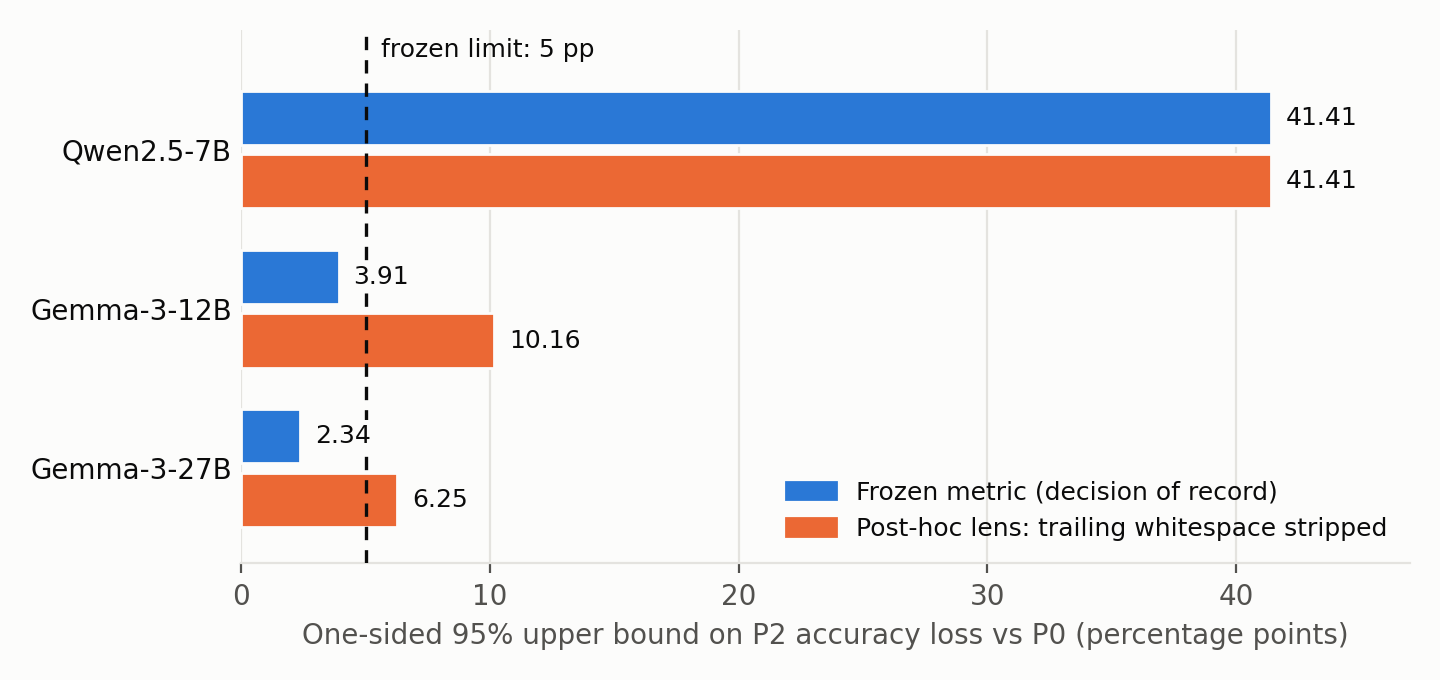
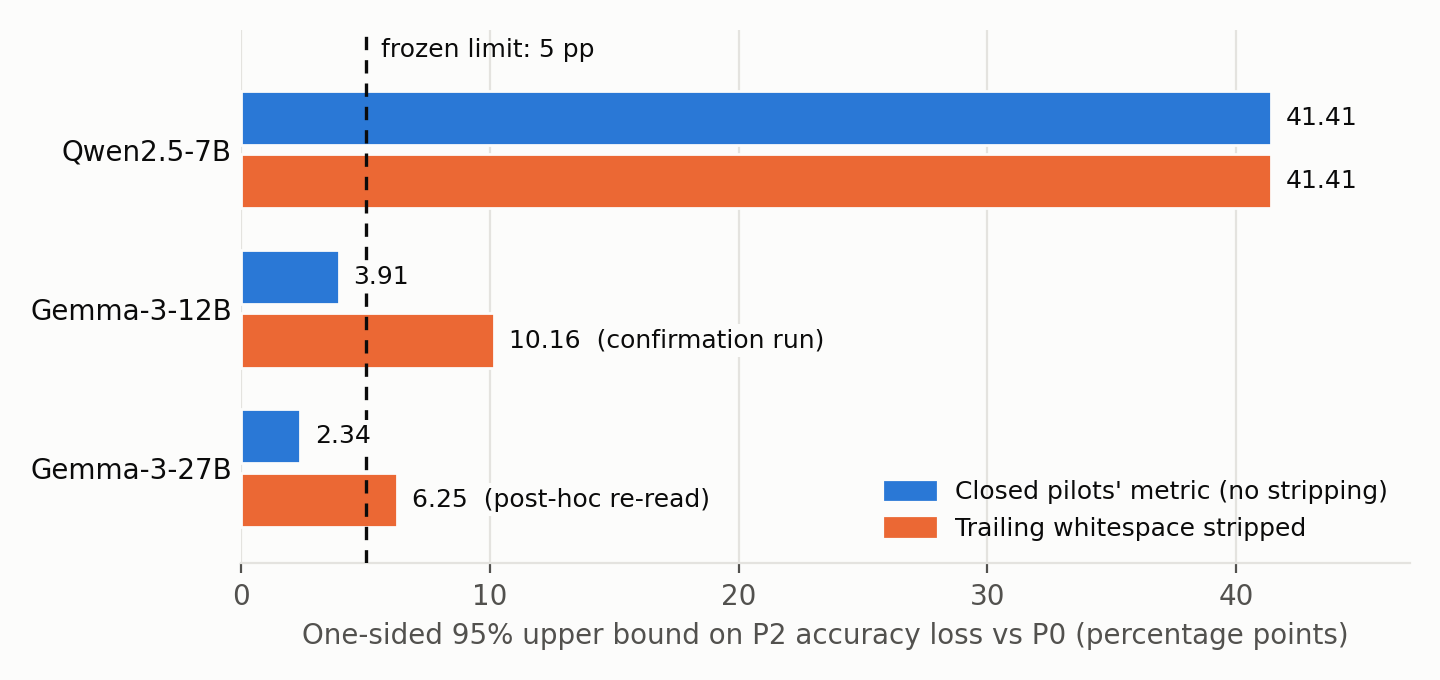
Report the Gemma-12B confirmation pilot in the paper, ledger and README
The confirmation pilot pilot-20260927T202455Z-f5ec3892 ran under the
answer-convention amendment frozen beforehand: P0 0.9512 (usability met),
P2 accuracy-loss upper 10.16 pp against the 5 pp limit, decision STOP, with
all 512 P0 generations bitwise-identical to the closed pilot's. The
Gemma-12B corrected-metric result is therefore a frozen outcome, not only a
post-hoc re-read; Gemma-3-27B remains post-hoc.

- paper: abstract and contributions state the confirmation; §4.1 adds it as
  a fourth pilot column; §4.3 separates the re-read, the frozen amendment
  and the confirmation run and labels each row's status; Figure 1 labels
  the 12B bar "confirmation run" and the 27B bar "post-hoc re-read"; the
  discussion, limitations and reproducibility sections follow. The
  confirmation report joins the paper's number-trace sources.
- docs/claims.md: the lens section's "NOT RECORDED" row now records the
  run, and the lens row marks 12B as confirmed and 27B as descriptive.
- README: the Phase Two paragraph states the confirmation outcome.

diff --git a/paper/make_figures.py b/paper/make_figures.py
@@ -15,15 +15,18 @@ import matplotlib.pyplot as plt  # noqa: E402
 
 LIMIT_PP = 5  # frozen gate 2: one-sided 95% upper P2 accuracy loss <= 5 pp
 
-# (family, frozen-metric upper bound, post-hoc lens upper bound), in pp.
+# (family, closed-pilot upper bound, whitespace-stripped upper bound), in pp.
 UPPER_BOUNDS = [
     # research/open_weight_lingua/reports/post_hoc_answer_lens.md (Qwen: identical under both)
     ("Qwen2.5-7B", 41.41, 41.41),
-    # reports/gemma3_pilot.md (frozen) and reports/post_hoc_answer_lens.md (lens)
+    # reports/gemma3_pilot.md (closed) and reports/gemma3_12b_confirmation.md (confirmation run)
     ("Gemma-3-12B", 3.906, 10.16),
-    # reports/gemma3_27b_pilot.md (frozen) and reports/post_hoc_answer_lens.md (lens)
+    # reports/gemma3_27b_pilot.md (closed) and reports/post_hoc_answer_lens.md (post-hoc only)
     ("Gemma-3-27B", 2.344, 6.25),
 ]
+# What the stripped value is, per family: shown on the bar so status is never color-alone.
+STRIPPED_STATUS = {"Qwen2.5-7B": "", "Gemma-3-12B": "confirmation run",
+                   "Gemma-3-27B": "post-hoc re-read"}
 
 # Reference palette slots 1 and 2 (validated: CVD dE 24.7, contrast >= 3:1 on #fcfcfb).
 FROZEN, LENS = "#2a78d6", "#eb6834"
@@ -41,12 +44,14 @@ def main(out: Path = Path(__file__).parent / "figures" / "fig1_preservation_boun
     families = [row[0] for row in UPPER_BOUNDS]
     for index, (family, frozen, lens) in enumerate(UPPER_BOUNDS):
         y = len(UPPER_BOUNDS) - 1 - index
-        for offset, value, color in ((height / 2 + gap, frozen, FROZEN),
-                                     (-(height / 2 + gap), lens, LENS)):
+        status = STRIPPED_STATUS[family]
+        for offset, value, color, note in ((height / 2 + gap, frozen, FROZEN, ""),
+                                           (-(height / 2 + gap), lens, LENS, status)):
             ax.barh(y + offset, value, height=height, color=color, edgecolor=SURFACE,
                     linewidth=1.0, zorder=3)
+            label = f"{value:.2f}" + (f"  ({note})" if note else "")
             # Knockout background so the limit line passes behind the label, not through it.
-            ax.text(value + 0.6, y + offset, f"{value:.2f}", va="center", ha="left",
+            ax.text(value + 0.6, y + offset, label, va="center", ha="left",
                     color=INK, fontsize=9, zorder=6,
                     bbox={"facecolor": SURFACE, "edgecolor": "none", "pad": 1.5})
 
@@ -68,7 +73,7 @@ def main(out: Path = Path(__file__).parent / "figures" / "fig1_preservation_boun
     ax.spines["bottom"].set_color(GRID)
 
     handles = [plt.Rectangle((0, 0), 1, 1, color=FROZEN), plt.Rectangle((0, 0), 1, 1, color=LENS)]
-    ax.legend(handles, ["Frozen metric (decision of record)", "Post-hoc lens: trailing whitespace stripped"],
+    ax.legend(handles, ["Closed pilots' metric (no stripping)", "Trailing whitespace stripped"],
               loc="lower right", frameon=False, fontsize=9, labelcolor=INK)
     fig.tight_layout()
     fig.savefig(out, facecolor=SURFACE)

diff --git a/paper/nla_three_families.md b/paper/nla_three_families.md
@@ -13,6 +13,7 @@ sources:
   research/open_weight_lingua/protocols/gemma_answer_convention.md
   research/open_weight_lingua/reports/gemma3_pilot.md
   research/open_weight_lingua/reports/gemma3_27b_pilot.md
+  research/open_weight_lingua/reports/gemma3_12b_confirmation.md
   research/open_weight_lingua/reports/post_hoc_answer_lens.md
   research/open_weight_lingua/reports/steering_assay.md
   research/open_weight_lingua/reports/nla_ecosystem_notes.md
@@ -47,8 +48,11 @@ The descriptions were clearly on-task (they beat a shuffled-description control
 on every family), but the frozen edit rule found no editable current-value
 statement in any group on any family (0/128 each), so the edit hypothesis is
 untested. Both Gemma families initially failed the usability gate because of an
-instrument artifact (a trailing newline); a post-hoc re-read with that newline
-stripped shows all three families exceeding the preservation limit. A separate
+instrument artifact (a trailing newline). A Gemma-3-12B confirmation pilot, run
+under a metric amendment frozen beforehand, made the task usable (P0 accuracy
+0.9512) and failed preservation (upper bound 10.16 points), so two families now
+fail preservation on usable tasks; a post-hoc re-read puts Gemma-3-27B over the
+limit as well. A separate
 steering assay and a serving-backend equivalence gate were also negative. We
 report these as bounded negative results for one task, one site per model and
 the released checkpoints, not as a verdict on NLAs in general.
@@ -93,7 +97,8 @@ test (Fraser-Taliente et al., 2026).
 4. **An instrument-failure case study** (§4.3): the Gemma usability failures
    were a trailing-newline artifact in the answer metric. It was caught post hoc
    and handled by freezing a metric amendment for a confirmation run, not by
-   relabeling closed runs.
+   relabeling closed runs. The confirmation run then reproduced the predicted
+   outcome exactly.
 
 ## 2. Background
 
@@ -194,25 +199,28 @@ that recomputes every decision and statistic from saved results.
 
 ## 4. Results
 
-All pilots completed 128/128 groups with auditor PASS. The decision on every
-family was **STOP**, and no validation stage was opened.
+Four pilots ran: one per family under the frozen metric, and one Gemma-3-12B
+confirmation pilot under the amended metric described in §4.3. All completed
+128/128 groups with auditor PASS. Every decision was **STOP**, and no validation
+stage was opened.
 
 ### 4.1 Outcomes against the frozen gates
 
-| | Qwen2.5-7B, block 20/28 | Gemma-3-12B, block 32/48 | Gemma-3-27B, block 41/62 |
-|---|---:|---:|---:|
-| P0 accuracy (frozen metric) | 0.811 | 0.520 | 0.254 |
-| Task usable (P0 ≥ 0.80) | yes | no | no |
-| P2 accuracy-loss upper (pp; limit 5) | 41.4 | 3.91 | 2.34 |
-| P2 − P3 log-prob lower (must be > 0) | +3.80 | +2.61 | +1.84 |
-| P2 agreement with P0 | 0.615 | 0.854 | 0.816 |
-| Edit-eligible groups (need 32) | 0/128 | 0/128 | 0/128 |
-| AV round-trip cosine (median) | 0.841 | 0.990 | 0.982 |
-| Projected validation cost (s; budget 28,800) | 49,253 | 75,348 | 181,295 |
-| Decision | STOP | STOP | STOP |
+| | Qwen2.5-7B, block 20/28 | Gemma-3-12B, block 32/48 | Gemma-3-27B, block 41/62 | Gemma-3-12B confirmation (amended metric) |
+|---|---:|---:|---:|---:|
+| P0 accuracy | 0.811 | 0.520 | 0.254 | 0.9512 |
+| Task usable (P0 ≥ 0.80) | yes | no | no | yes |
+| P2 accuracy-loss upper (pp; limit 5) | 41.4 | 3.91 | 2.34 | 10.16 |
+| P2 − P3 log-prob lower (must be > 0) | +3.80 | +2.61 | +1.84 | +2.607 |
+| P2 agreement with P0 | 0.615 | 0.854 | 0.816 | 0.945 |
+| Edit-eligible groups (need 32) | 0/128 | 0/128 | 0/128 | 0/128 |
+| AV round-trip cosine (median) | 0.841 | 0.990 | 0.982 | not reported |
+| Projected validation cost (s; budget 28,800) | 49,253 | 75,348 | 181,295 | 113,902 |
+| Decision | STOP | STOP | STOP | STOP |
 
-Read naively, the Gemma rows look like the language route *works* on Gemma
-(preservation met) and fails on Qwen. Section 4.3 shows why that reading is wrong.
+Read naively, the first three columns look like the language route *works* on
+Gemma (preservation met) and fails on Qwen. The fourth column, and Section 4.3,
+show why that reading is wrong.
 
 ### 4.2 Per-condition behavior
 
@@ -243,7 +251,7 @@ Three patterns hold on every family:
 On Qwen, P2's residual accuracy does not come from the retained norm: replacing
 it with the calibration median norm gives 0.5605 against 0.5645.
 
-### 4.3 An instrument failure, and what the corrected re-read shows
+### 4.3 An instrument failure, a corrected re-read, and a confirmation run
 
 Gemma-3-12B's P0 accuracy of 0.5195 was suspicious for a task this simple. A
 failure taxonomy of the saved generations found that the mirror-sourced target
@@ -253,38 +261,43 @@ correct value once the newline was removed. The Qwen pilot has zero
 whitespace-affected rows.
 
 The closed pilots were not relabeled: thresholds and instruments are frozen per
-phase, so the STOP decisions stand. Instead, a metric amendment (`rstrip`: strip
-trailing ASCII whitespace once, then apply the same exact-integer rule) was frozen
-*before* a planned Gemma-12B confirmation pilot. Separately, a post-hoc
-descriptive re-read of the saved generations under that lens gives:
+phase, so their STOP decisions stand. Instead, in three steps:
 
-| Family | P0 accuracy (lens) | P2 accuracy (lens) | P2 loss point / one-sided upper (pp) | Limit |
-|---|---:|---:|---:|---:|
-| Qwen2.5-7B | 0.8105 | 0.5645 | 34.38 / 41.41 | 5 |
-| Gemma-3-12B | 0.9512 | 0.9336 | 5.47 / 10.16 | 5 |
-| Gemma-3-27B | 0.9648 | 0.9531 | 2.34 / 6.25 | 5 |
+1. **Post-hoc re-read.** Saved generations were re-scored with trailing ASCII
+   whitespace stripped once before the same exact-integer rule. This previewed
+   what a corrected instrument would show, and is descriptive only.
+2. **Frozen amendment.** That `rstrip` convention was then frozen as a metric
+   amendment, *before* any confirmation forward pass. The default stays the
+   original `raw` convention, and the closed runs replay unchanged under it.
+3. **Confirmation pilot.** A fresh Gemma-3-12B pilot ran under the amendment,
+   with the same lock, the same 128 groups and the same calibration fit
+   (`pilot-20260927T202455Z-f5ec3892`, auditor PASS). All 512 P0 generations
+   were bitwise-identical to the closed pilot's: the instrument changed, not the
+   model. Every number matched the re-read's preview exactly.
 
-![Upper bound on P2 accuracy loss per family, frozen metric versus post-hoc lens, against the 5-point limit](figures/fig1_preservation_bounds.png)
+| Family | P0 accuracy | P2 accuracy | P2 loss point / one-sided upper (pp) | Limit | Status |
+|---|---:|---:|---:|---:|---|
+| Qwen2.5-7B | 0.8105 | 0.5645 | 34.38 / 41.41 | 5 | Frozen; no whitespace-affected rows, identical under either metric |
+| Gemma-3-12B | 0.9512 | 0.9336 | 5.47 / 10.16 | 5 | Frozen outcome of the confirmation pilot |
+| Gemma-3-27B | 0.9648 | 0.9531 | 2.34 / 6.25 | 5 | Post-hoc re-read only; no confirmation run |
+
+![Upper bound on P2 accuracy loss per family, closed-pilot metric versus trailing whitespace stripped, against the 5-point limit](figures/fig1_preservation_bounds.png)
 
 **Figure 1.** One-sided 95% upper bound on P2 accuracy loss versus P0. Under the
-frozen metric (decisions of record), the Gemma bounds sit under the limit only
-because the metric rejected most correct answers. Under the post-hoc lens, both
+closed pilots' metric, the Gemma bounds sit under the limit only because the
+metric rejected most correct answers. With trailing whitespace stripped, both
 Gemma tasks become usable (P0 0.951 and 0.965) and all three families exceed the
-5-point limit. The lens values are descriptive re-reads of saved generations,
-not new frozen outcomes.
+5-point limit. For Gemma-3-12B that value is the frozen outcome of the
+confirmation pilot; for Gemma-3-27B it is a post-hoc re-read of saved
+generations, not a frozen outcome.
 
 So the apparent Gemma preservation passes were floor effects of the format
-rejections. With the instrument corrected, the three families agree: the
-description route loses more than the frozen tolerance. The size of the loss
-differs a lot, from 41.41 points on Qwen to 6.25 on Gemma-3-27B, but three
-families cannot separate model size from site depth, family or the NLA pair's
-training, and the 27B AV was served with a BF16 cast that could not be audited
-locally.
-
-**Status of the confirmation run.** The amendment names a fresh Gemma-12B
-confirmation pilot under the `rstrip` convention, whose numbers would supersede
-the lens preview. Its results are not recorded in this repository at the time of
-writing.
+rejections. With a working instrument, Gemma-3-12B lands where Qwen landed:
+usable task, preservation failed, decided by a frozen run. Gemma-3-27B points the
+same way, though only descriptively. The size of the loss differs a lot, from
+41.41 points on Qwen to 6.25 on Gemma-3-27B, but three families cannot separate
+model size from site depth, family or the NLA pair's training, and the 27B AV
+was served with a BF16 cast that could not be audited locally.
 
 ### 4.4 The edit interface never appeared
 
@@ -338,9 +351,10 @@ decode caching.
 
 **What the evidence supports.** At the released sites, on this task, the English
 descriptions carry information the model uses (P2 beats P3 everywhere), but not
-enough to reproduce the model's behavior within a 5-point tolerance: decisively
-so on the usable Qwen task under the frozen metric, and on all three families
-under the post-hoc lens. A generic numerical reconstruction, given
+enough to reproduce the model's behavior within a 5-point tolerance. That is a
+frozen outcome on the two usable tasks, Qwen2.5-7B (decisively) and Gemma-3-12B
+under the amended metric, and a post-hoc reading on Gemma-3-27B. A generic
+numerical reconstruction, given
 no more bytes than the text, stays close to the unmodified model. The descriptions
 did not expose current variable values in an editable form, and description
 differences did not steer targeted behavior.
@@ -360,8 +374,10 @@ identity gate ruled that out. A faster backend could have silently changed the
 measurements; an equivalence gate caught it. A metric artifact made two families
 look like they preserved behavior; freezing thresholds per phase and freezing the
 fix as an amendment for a new run, rather than relabeling closed runs, kept the
-record honest. The negative results are only credible because each of those
-failure modes had a written rule before the outcome was seen.
+record honest. The re-read made a prediction, and the confirmation run under the
+frozen amendment tested it and reproduced it exactly. The negative results are
+only credible because each of those failure modes had a written rule before the
+outcome was seen.
 
 ## 6. Limitations
 
@@ -372,8 +388,12 @@ failure modes had a written rule before the outcome was seen.
   with four small configuration files differing.
 - The Gemma-3-27B AV (float32-native) was served with a BF16 cast to fit memory.
   That deviation is declared in the lock and could not be audited locally.
-- The lens results in §4.3 are post-hoc and descriptive. The planned confirmation
-  run under the frozen amendment is not recorded here.
+- Only Gemma-3-12B has a confirmation run under the amended metric. The
+  Gemma-3-27B corrected-metric result in §4.3 is a post-hoc re-read and stays
+  descriptive.
+- The amended metric strips trailing whitespace only. The teacher-forced
+  log-probability channel is unchanged and still scores a newline-free suffix
+  that the Gemma target does not prefer; this is recorded, not reconciled.
 - Behavioral measurements are engineering instruments, not semantic evidence. No
   claim is made about what the descriptions mean.
 
@@ -385,7 +405,7 @@ hash-pinned model locks, the frozen protocols, the runner, the independent
 auditor, per-run manifests and the reports quoted here. Its fixture test suite
 runs on CPU in CI, on tiny random models with no downloads. Real runs need one
 GPU host; measured pilot wall-clock times were 11,980.8 s (Qwen2.5-7B), 18,472.7 s
-(Gemma-3-12B) and 44,681.4 s (Gemma-3-27B).
+(Gemma-3-12B), 44,681.4 s (Gemma-3-27B) and 27,524 s (Gemma-3-12B confirmation).
 
 | Record | Where |
 |---|---|
@@ -393,6 +413,7 @@ GPU host; measured pilot wall-clock times were 11,980.8 s (Qwen2.5-7B), 18,472.7
 | Qwen pilot decision, gate by gate | [protocols/pilot_decision.md](../research/open_weight_lingua/protocols/pilot_decision.md) |
 | Gemma-3-12B and 27B pilots | [reports/gemma3_pilot.md](../research/open_weight_lingua/reports/gemma3_pilot.md), [reports/gemma3_27b_pilot.md](../research/open_weight_lingua/reports/gemma3_27b_pilot.md) |
 | Answer-metric amendment and lens | [protocols/gemma_answer_convention.md](../research/open_weight_lingua/protocols/gemma_answer_convention.md), [reports/post_hoc_answer_lens.md](../research/open_weight_lingua/reports/post_hoc_answer_lens.md) |
+| Gemma-3-12B confirmation pilot | [reports/gemma3_12b_confirmation.md](../research/open_weight_lingua/reports/gemma3_12b_confirmation.md) |
 | Steering assay | [reports/steering_assay.md](../research/open_weight_lingua/reports/steering_assay.md) |
 | Every claim and its status | [docs/claims.md](../docs/claims.md) |
 | Full technical report (Qwen) | [docs/phase_two_technical_report.md](../docs/phase_two_technical_report.md) |

diff --git a/docs/claims.md b/docs/claims.md
@@ -224,17 +224,19 @@ block 41 of 62, width 5376) with the unsloth/gemma-3-27b-it mirror target.
 A descriptive re-read of the closed pilots' saved generations, with trailing
 ASCII whitespace stripped once before the unchanged exact-integer rule. It
 changes no frozen outcome: thresholds and instruments are frozen per phase, and
-the STOP decision on each family stands. See
-[reports/post_hoc_answer_lens.md](../research/open_weight_lingua/reports/post_hoc_answer_lens.md)
-and [protocols/gemma_answer_convention.md](../research/open_weight_lingua/protocols/gemma_answer_convention.md).
+the STOP decision on each family stands. A Gemma-3-12B confirmation pilot under
+the frozen amendment later reproduced the 12B lens numbers exactly. See
+[reports/post_hoc_answer_lens.md](../research/open_weight_lingua/reports/post_hoc_answer_lens.md),
+[protocols/gemma_answer_convention.md](../research/open_weight_lingua/protocols/gemma_answer_convention.md)
+and [reports/gemma3_12b_confirmation.md](../research/open_weight_lingua/reports/gemma3_12b_confirmation.md).
 
 | Statement | Status | Evidence and boundary |
 |---|---|---|
 | The Gemma usability-gate failures reflect the model's computation | FALSE (instrument artifact) | Gemma-3-12B pilot taxonomy: 228/512 variants rejected for trailing whitespace, 221 of them with the correct value after stripping; the mirror target answers digits + newline + `<end_of_turn>`. The Qwen pilot has zero whitespace-affected rows |
-| Under the lens, every family exceeds the 5 pp preservation limit | Observed post hoc; descriptive only | Lens P2 accuracy-loss one-sided upper: Qwen2.5-7B 41.41, Gemma-3-12B 10.16, Gemma-3-27B 6.25 pp. Recomputed from saved generations with the frozen bootstrap; not a new frozen outcome |
+| Under the lens, every family exceeds the 5 pp preservation limit | Observed post hoc; confirmed for Gemma-3-12B by a frozen run; Gemma-3-27B remains descriptive | Lens P2 accuracy-loss one-sided upper: Qwen2.5-7B 41.41, Gemma-3-12B 10.16, Gemma-3-27B 6.25 pp, recomputed from saved generations with the frozen bootstrap. The 12B value is now also a frozen outcome (row below); the 27B value is not |
 | The frozen-metric Gemma "preservation passes" show the language route works on Gemma | FALSE | They were floor effects of the format rejections; under the lens the Gemma tasks become usable (P0 0.951 / 0.965) and preservation fails |
 | An answer-convention amendment exists for future runs | Frozen 2026-09-27, before the Gemma-12B confirmation pilot | `--answer-convention rstrip`; the default stays `raw`, byte-identical to the closed pilots' instrument, and remains the convention for Qwen runs |
-| A Gemma-12B confirmation pilot under the amendment has been run | NOT RECORDED in this repository | Its numbers would supersede the lens preview; until recorded, the lens values stay descriptive |
+| A Gemma-12B confirmation pilot under the amendment has been run | COMPLETE; decision STOP | `pilot-20260927T202455Z-f5ec3892`, 128/128 groups, auditor PASS, `answer_convention: rstrip`, same lock, groups and calibration fit as the closed pilot. All 512 P0 generations bitwise-identical to the closed pilot's. P0 0.9512 (usability met); P2 accuracy-loss upper 10.16 pp > 5 pp (not met); P2 − P3 log-prob lower +2.607; edit-eligible 0/128. Every number matches the lens preview exactly. See reports/gemma3_12b_confirmation.md |
 
 ## Completed phase-one findings (2026-09-16)
 

diff --git a/README.md b/README.md
@@ -251,9 +251,11 @@ taxonomy traced that to the answer metric: the Gemma target ends its answers wit
 a newline, which the frozen metric rejects. A post-hoc re-read with trailing
 whitespace stripped makes both Gemma tasks usable and shows every family exceeding
 the 5-point preservation limit (upper bounds 41.41, 10.16 and 6.25 points). The
-edit interface was absent on all three families (0/128 each). The re-read is
-descriptive; a confirmation run under the frozen metric amendment is not yet
-recorded.
+edit interface was absent on all three families (0/128 each). A Gemma-3-12B
+confirmation pilot, run under a metric amendment frozen beforehand, then
+reproduced the re-read exactly: usable task (P0 accuracy 0.9512), preservation
+failed (10.16 points), decision STOP. The Gemma-3-27B value remains a post-hoc
+re-read.
 [Ledger entry](docs/claims.md#post-hoc-answer-lens-and-frozen-answer-convention-amendment-2026-09-27).
 
 Two follow-up measurements were each run once and closed, both negative:
